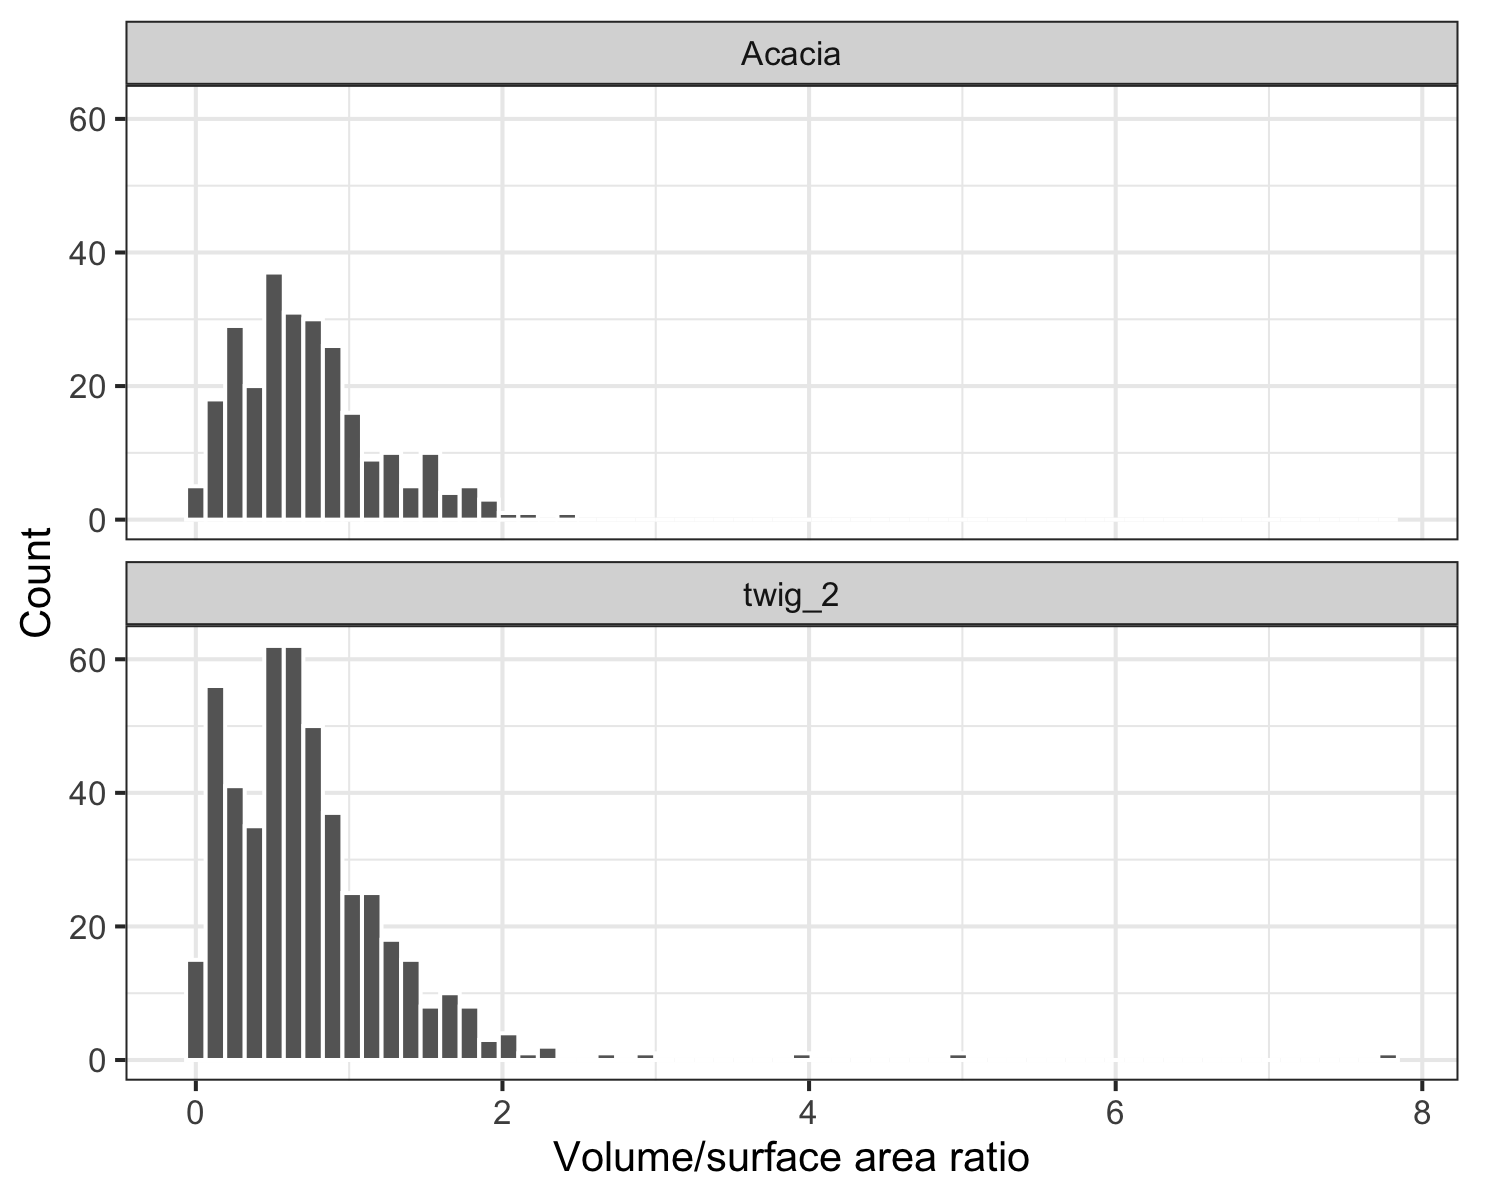
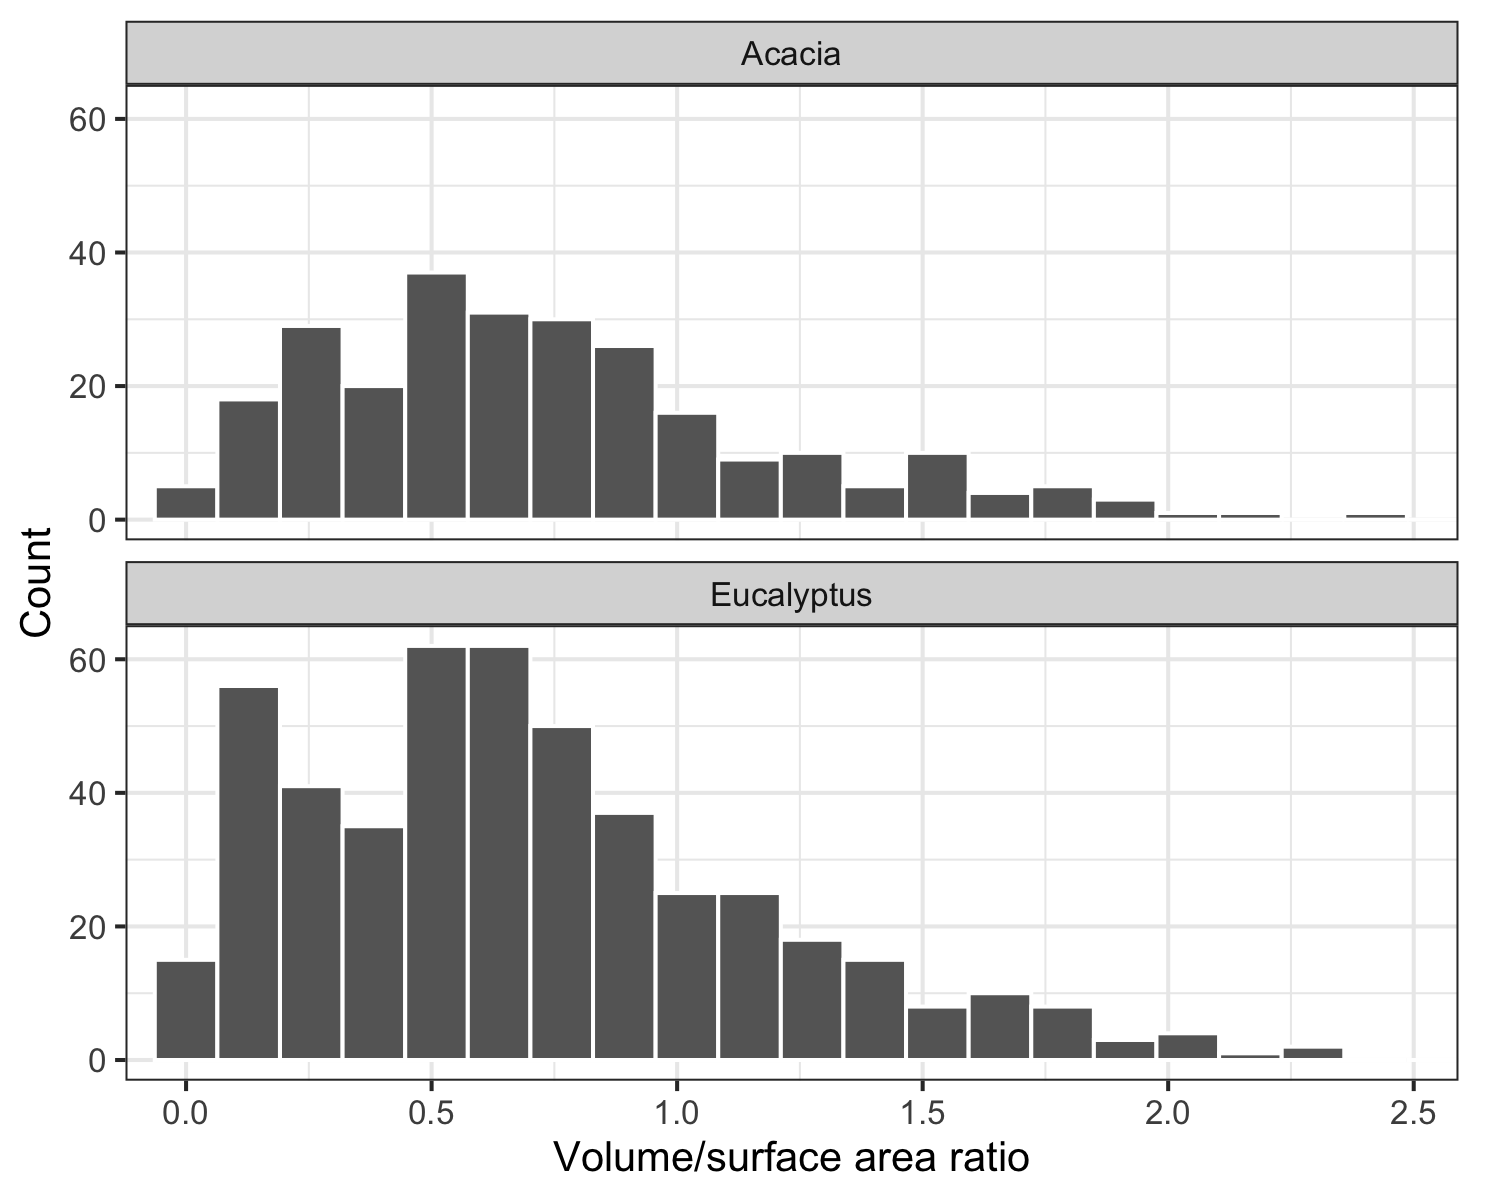
Fix histogram facet labels to match EMM plots and fix empty histogram

diff --git a/README.md b/README.md
@@ -1,4 +1,4 @@
-# firebrand-characteristic-statistical-analysis
+# Firebrand characteristic statistical analysis
 
 This repository contains the data, analysis scripts, and statistical findings for Chapter 2: Firebrand Characteristics Data Analysis. It encompasses data regarding various firebrand samples, primarily focusing on physical properties such as dimensions, mass, density, and observed characteristics under different test conditions.
 
